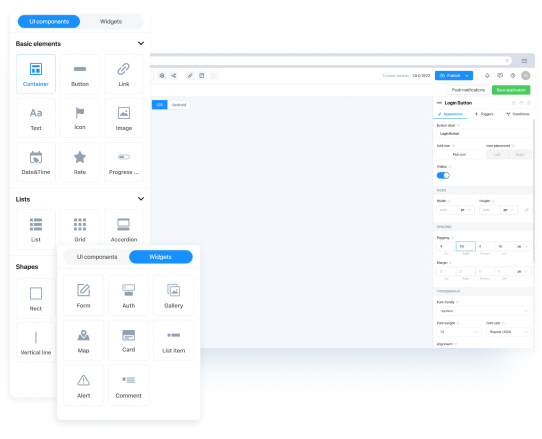
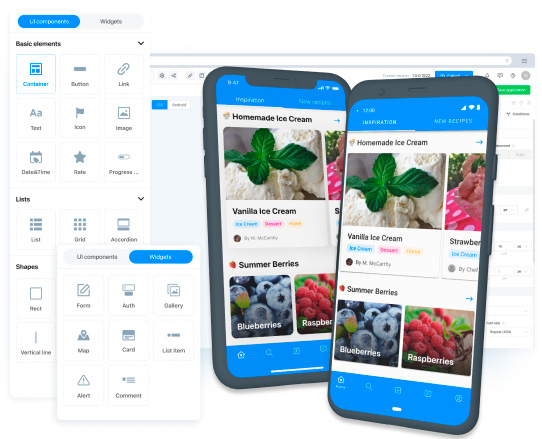
Add files via upload

diff --git a/#src/scss/style.scss b/#src/scss/style.scss
@@ -270,18 +270,6 @@ body {
       img {
          max-width: 100%;
       }
-      &::after {
-         content: "";
-         position: absolute;
-         top: 60px;
-         left: 185px;
-         width: 100%;
-         height: 380px;
-         background-image: url(../img/appps.png);
-         background-repeat: no-repeat;
-         z-index: 2;
-         cursor: pointer;
-      }
    }
 }
 .main-content {

diff --git a/css/style.css b/css/style.css
@@ -317,18 +317,6 @@ body {
 .main-page__img img {
   max-width: 100%;
 }
-.main-page__img::after {
-  content: "";
-  position: absolute;
-  top: 60px;
-  left: 185px;
-  width: 100%;
-  height: 380px;
-  background-image: url(../img/appps.png);
-  background-repeat: no-repeat;
-  z-index: 2;
-  cursor: pointer;
-}
 
 .main-content {
   -webkit-box-flex: 0;
